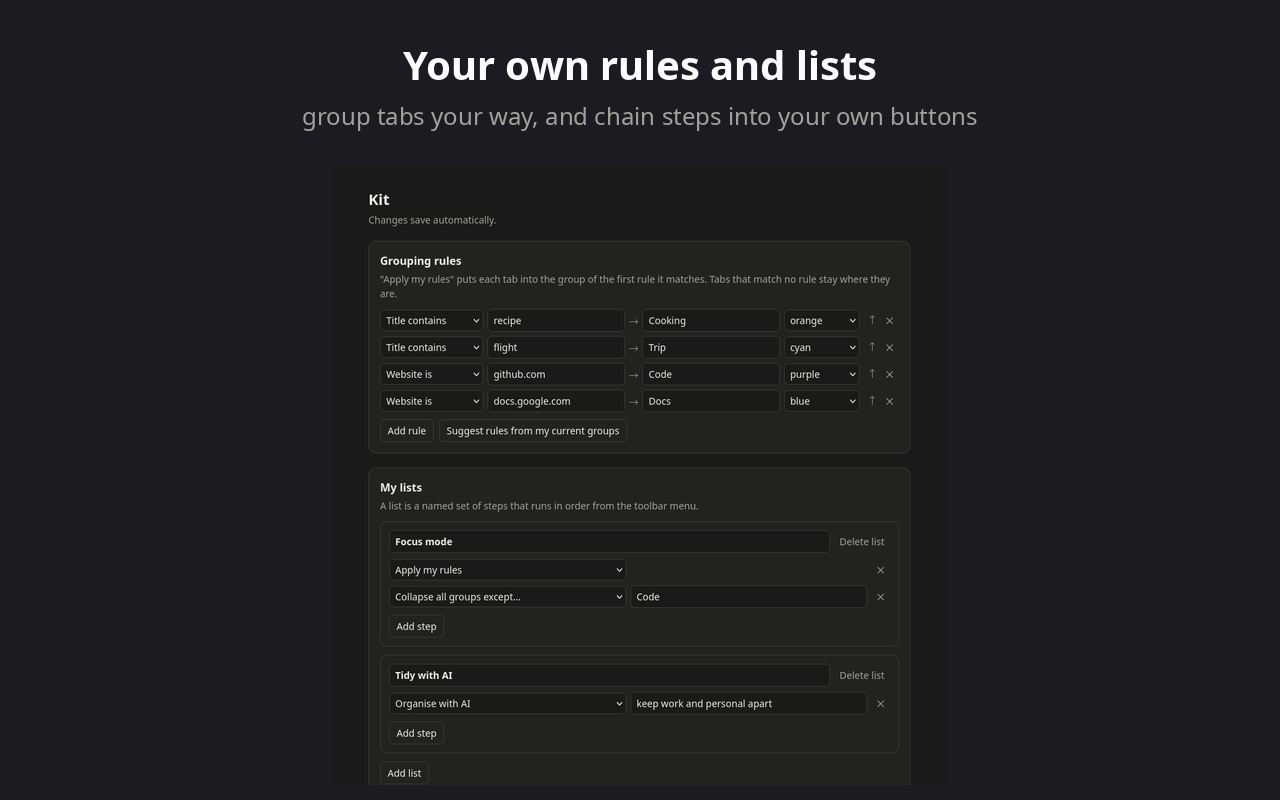
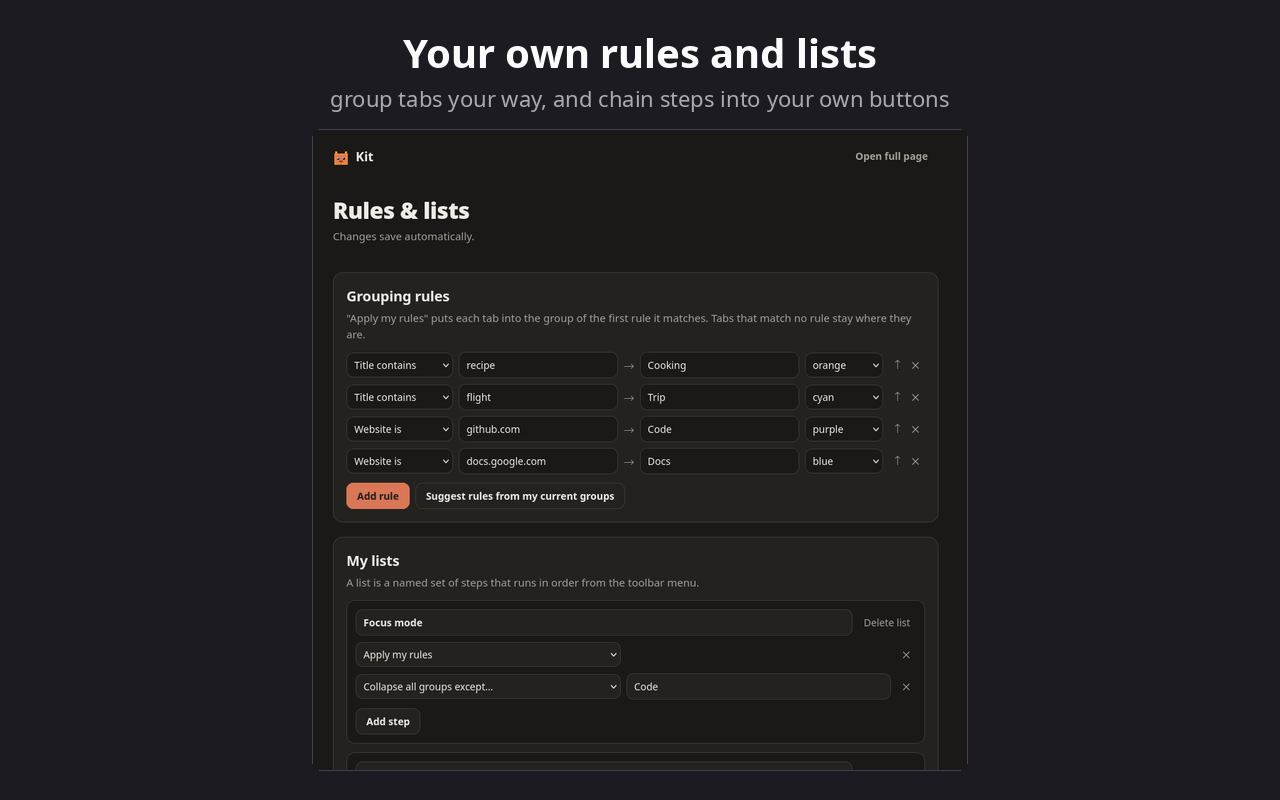
Update AMO screenshots for 0.8.2 and add an AI assistants one

diff --git a/docs/amo-listing.md b/docs/amo-listing.md
@@ -2,6 +2,16 @@
 
 Copy these into the Developer Hub (**Edit Product Page**, and **Upload New Version** for the release notes and reviewer notes). Screenshots (1280×800, in order) are in [`docs/amo/`](amo).
 
+## Screenshots
+
+Upload in this order (1280×800, in [`docs/amo/`](amo)), with these captions:
+
+1. `1-kit.png`: Kit walks along your tab bar and says what's changing, on every page.
+2. `2-menu.png`: Organise with AI in one click, then see exactly which groups it made.
+3. `3-settings.png`: Your own grouping rules, and lists that chain steps into one button.
+4. `4-full-page.png`: Kit's full page explains every feature, with live counts of your tabs.
+5. `5-assistants.png`: Works with Claude Code, Codex, Hermes Agent, Gemini CLI, Cursor and other MCP apps.
+
 ## Name
 
 Kit: Tab Manager
